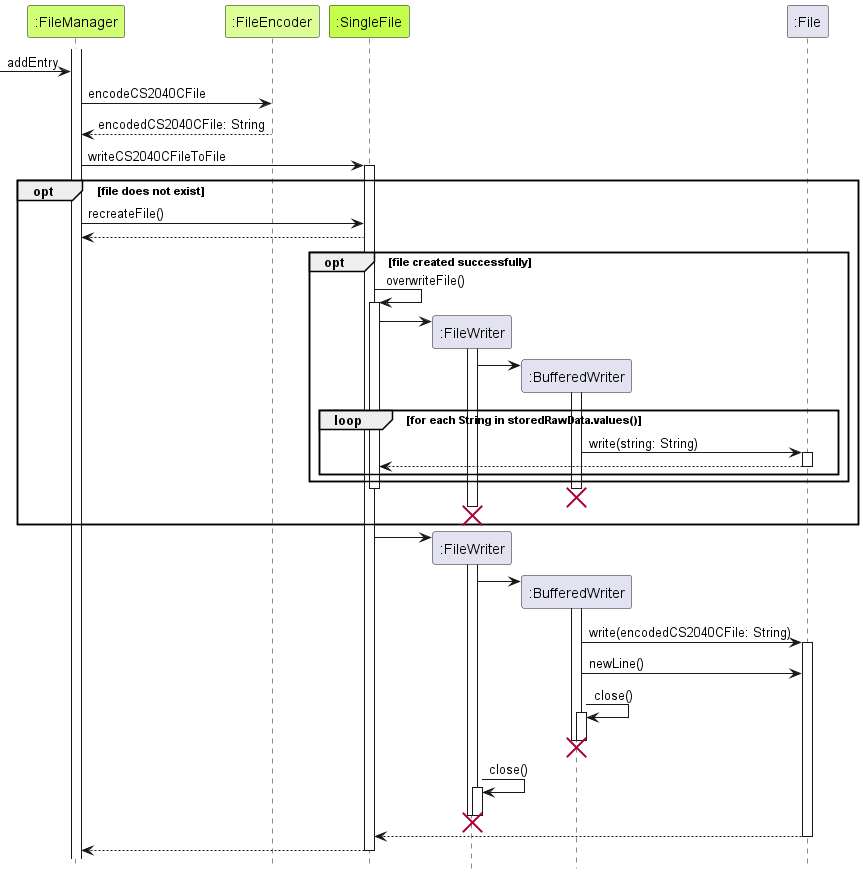
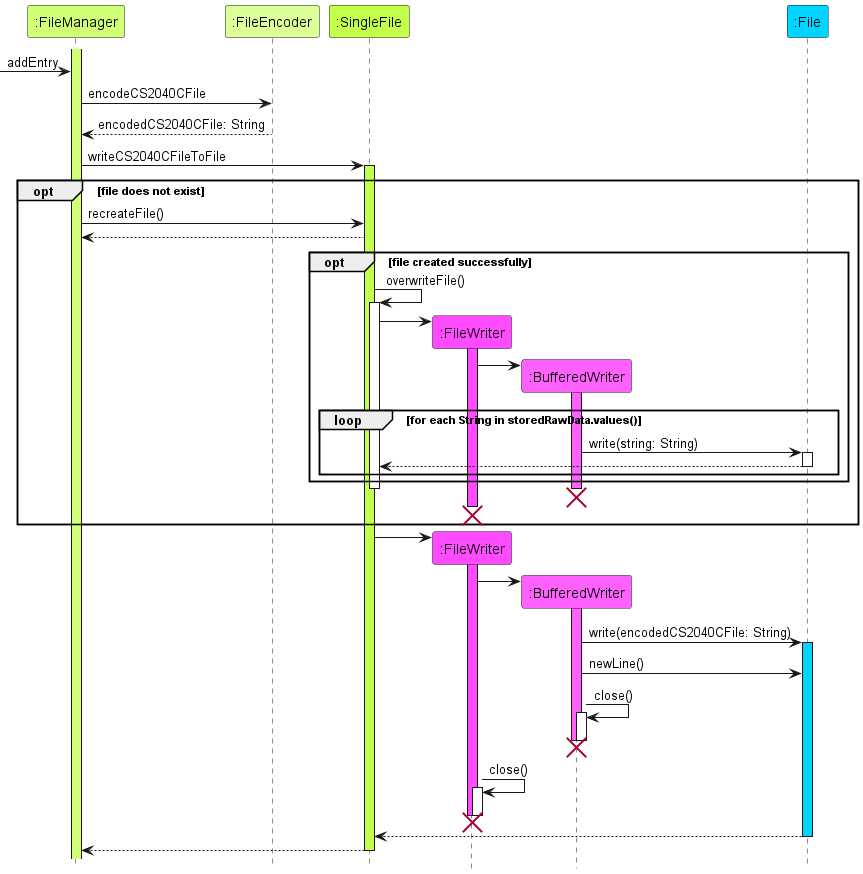
Add: colours to activation box
Add: SecurityException checking for all applicable methods

diff --git a/src/main/java/seedu/clialgo/storage/FileManager.java b/src/main/java/seedu/clialgo/storage/FileManager.java
@@ -63,6 +63,8 @@ public class FileManager {
             }
         } catch (IOException e) {
             e.printStackTrace();
+        } catch (SecurityException e) {
+            ui.printSecurityDenied();
         }
         return newFile;
     }
@@ -91,18 +93,22 @@ public class FileManager {
      * @param pathToFolder The <code>File</code> representing the folder to delete.
      */
     public static void deleteAll(File pathToFolder) {
-        File[] files = pathToFolder.listFiles();
-        if (files != null) {
-            for (File f : files) {
-                if (!f.delete()) {
-                    Ui.printDeleteFail();
+        try {
+            File[] files = pathToFolder.listFiles();
+            if (files != null) {
+                for (File f : files) {
+                    if (!f.delete()) {
+                        Ui.printDeleteFail();
+                    }
                 }
             }
-        }
-        if (!pathToFolder.delete()) {
-            Ui.printDeleteFail();
-        } else {
-            Ui.printDeleteSuccess();
+            if (!pathToFolder.delete()) {
+                Ui.printDeleteFail();
+            } else {
+                Ui.printDeleteSuccess();
+            }
+        } catch (SecurityException e) {
+            Ui.printStaticSecurityDenied();
         }
     }
 
@@ -115,6 +121,8 @@ public class FileManager {
             Files.createDirectories(directory);
         } catch (IOException e) {
             ui.printFolderCreateError();
+        } catch (SecurityException e) {
+            ui.printSecurityDenied();
         }
     }
 
@@ -136,6 +144,8 @@ public class FileManager {
             ui.printFileWriteError();
             singleFile.recreateFile();
             return false;
+        } catch (SecurityException e) {
+            ui.printSecurityDenied();
         }
         return true;
     }
@@ -155,6 +165,8 @@ public class FileManager {
             ui.printFileWriteError();
             singleFile.recreateFile();
             return false;
+        } catch (SecurityException e) {
+            ui.printSecurityDenied();
         }
         return true;
     }
@@ -208,21 +220,28 @@ public class FileManager {
      */
     public void deleteTestData() {
         File pathToFolder = new File(testModePath);
-        File[] files = pathToFolder.listFiles();
-        if (files != null) {
-            for (File f : files) {
-                if (!f.delete()) {
-                    ui.printFileDeleteFail();
+        try {
+            File[] files = pathToFolder.listFiles();
+            if (files != null) {
+                for (File f : files) {
+                    if (!f.delete()) {
+                        ui.printFileDeleteFail();
+                    }
                 }
             }
-        }
-        if (!pathToFolder.delete()) {
-            ui.printFileDeleteFail();
-        } else {
-            ui.printFileDeleteSuccess();
+            if (!pathToFolder.delete()) {
+                ui.printFileDeleteFail();
+            } else {
+                ui.printFileDeleteSuccess();
+            }
+        } catch (SecurityException e) {
+            ui.printSecurityDenied();
         }
     }
 
+    /**
+     * Recreates the data folder and all the files within for those which are missing.
+     */
     public void recreateAll() {
         if (!new File(path).exists()) {
             createFolder();

diff --git a/src/main/java/seedu/clialgo/storage/SingleFile.java b/src/main/java/seedu/clialgo/storage/SingleFile.java
@@ -59,6 +59,8 @@ public class SingleFile {
                 ui.printCorruptedFileDiscarded(corruptCount, name);
             } catch (IOException e) {
                 ui.printFileWriteError();
+            } catch (SecurityException e) {
+                ui.printSecurityDenied();
             }
         }
     }
@@ -70,9 +72,10 @@ public class SingleFile {
      *
      * @param encodedCS2040CFile The <code>CS2040CFile</code> encoded as a <code>String</code>.
      * @throws IOException Throws an exception if the file write fails.
+     * @throws SecurityException Throws an exception if the security manager denies permission.
      */
     public void writeCS2040CFileToFile(String fileName, String encodedCS2040CFile, CS2040CFile cs2040cFile)
-            throws IOException {
+            throws IOException, SecurityException {
         assert encodedCS2040CFile != null : "Empty string";
         try {
             if (!file.exists()) {
@@ -88,6 +91,8 @@ public class SingleFile {
             this.cs2040cFiles.put(fileName, cs2040cFile);
         } catch (IOException e) {
             throw new IOException();
+        } catch (SecurityException e) {
+            throw new SecurityException();
         }
     }
 
@@ -95,8 +100,9 @@ public class SingleFile {
      * Writes all the stored raw data into the .txt file, overwriting all the existing data stored in the .txt file.
      *
      * @throws IOException Throws an exception if the file write fails.
+     * @throws SecurityException Throws an exception if the security manager denies permission.
      */
-    public void overwriteFile() throws IOException {
+    public void overwriteFile() throws IOException, SecurityException {
         try {
             FileWriter fileWriter = new FileWriter(file, false);
             BufferedWriter bufferedWriter = new BufferedWriter(fileWriter);
@@ -108,6 +114,8 @@ public class SingleFile {
             fileWriter.close();
         } catch (IOException e) {
             throw new IOException();
+        } catch (SecurityException e) {
+            throw new SecurityException();
         }
     }
 
@@ -117,8 +125,9 @@ public class SingleFile {
      *
      * @param name The name of the <code>CS2040CFile</code> being deleted.
      * @throws IOException Throws an exception if the file write fails.
+     * @throws SecurityException Throws an exception if the security manager denies permission.
      */
-    public void deleteEntry(String name) throws IOException{
+    public void deleteEntry(String name) throws IOException,SecurityException {
         if (!this.storedRawData.containsKey(name)) {
             return;
         }
@@ -130,6 +139,8 @@ public class SingleFile {
             overwriteFile();
         } catch (IOException e) {
             throw new IOException();
+        } catch (SecurityException e) {
+            throw new SecurityException();
         }
         cs2040cFiles.remove(name);
     }
@@ -144,6 +155,8 @@ public class SingleFile {
             }
         } catch (IOException e) {
             ui.printFileWriteError();
+        } catch (SecurityException e) {
+            ui.printSecurityDenied();
         }
     }
 

diff --git a/src/main/java/seedu/clialgo/Buffer.java b/src/main/java/seedu/clialgo/Buffer.java
@@ -48,11 +48,16 @@ public class Buffer {
         return buffer;
     }
 
+    /**
+     * Creates ./export folder.
+     */
     private void createFolder() {
         try {
             Files.createDirectories(pathToBuffer.toPath());
         } catch (IOException e) {
             ui.printFolderCreateError();
+        } catch (SecurityException e) {
+            ui.printSecurityDenied();
         }
     }
 
@@ -67,14 +72,18 @@ public class Buffer {
      * Deletes all the files in <code>.\\export</code>.
      */
     public void deleteFiles() {
-        File[] files = pathToBuffer.listFiles();
-        if (files != null) {
-            for (File file : files) {
-                assert file.exists() : "This should be non-null";
-                if (!file.delete()) {
-                    ui.printFileDeleteFail();
+        try {
+            File[] files = pathToBuffer.listFiles();
+            if (files != null) {
+                for (File file : files) {
+                    assert file.exists() : "This should be non-null";
+                    if (!file.delete()) {
+                        ui.printFileDeleteFail();
+                    }
                 }
             }
+        } catch (SecurityException e) {
+            ui.printSecurityDenied();
         }
     }
 
@@ -104,6 +113,8 @@ public class Buffer {
                 Files.copy(source, target, StandardCopyOption.REPLACE_EXISTING);
             } catch (IOException e) {
                 ui.printFileMissing();
+            } catch (SecurityException e) {
+                ui.printSecurityDenied();
             }
         }
     }
@@ -124,6 +135,8 @@ public class Buffer {
             ui.printFolderMissing();
         } catch (UnsupportedOperationException e) {
             ui.printOpenFolderNotSupported();
+        } catch (SecurityException e) {
+            ui.printSecurityDenied();
         }
     }
 }

diff --git a/src/main/java/seedu/clialgo/Ui.java b/src/main/java/seedu/clialgo/Ui.java
@@ -542,4 +542,16 @@ public class Ui {
     public static void printDeleteFail() {
         System.out.println("Delete failed.");
     }
+
+    public void printSecurityDenied() {
+        printDivider();
+        System.out.println("Permissions denied by security manager!");
+        System.out.println("Check your security manager!");
+        printDivider();
+    }
+
+    public static void printStaticSecurityDenied() {
+        System.out.println("Permissions denied by security manager!");
+        System.out.println("Check your security manager!");
+    }
 }
